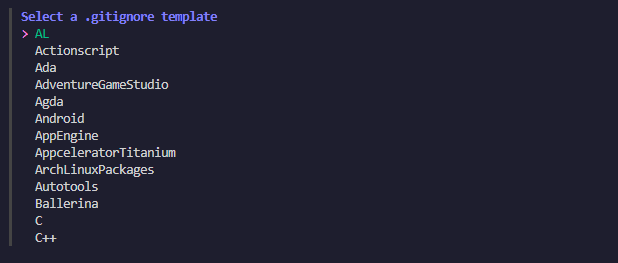
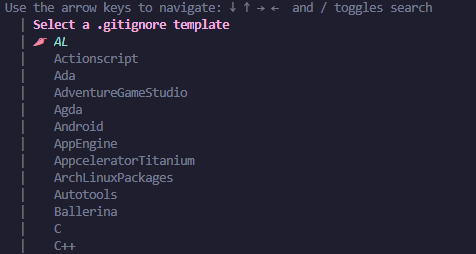
replace huh with promptui - it gives more control over filtering
add --filter/-f flag, this allows configuration over a prefix vs contains filter

update the README to reflect changes

Changed region(s): [[0.0, 0.0, 0.5882, 0.9921], [0.6176, 0.0, 0.9118, 0.0827], [0.1176, 0.937, 0.1765, 0.9921]]

diff --git a/new.go b/new.go
@@ -7,9 +7,8 @@ import (
 	"io"
 	"os"
 
-	"github.com/charmbracelet/huh"
-	"github.com/charmbracelet/lipgloss"
 	"github.com/google/go-github/v72/github"
+	"github.com/manifoldco/promptui"
 	"github.com/spf13/cobra"
 	"github.com/spf13/viper"
 )
@@ -58,41 +57,39 @@ func runNewCommand(cmd *cobra.Command, _ []string) error {
 		return fmt.Errorf("error committing gitignore file: %w", err)
 	}
 
-	style := lipgloss.NewStyle().
-		Bold(true).
-		Foreground(lipgloss.Color("#7D56F4")) // nolint: misspell
-
-	fmt.Println(style.Render("Created"), content.GetName(), style.Render(".gitignore file ✓"))
-
 	return nil
 }
 
 // runPrompt is a helper function to run the selection prompt for .gitignore templates.
 func runPrompt(client *github.Client, height int) (*github.Gitignore, error) {
-	var selection string
-
 	templates, _, err := client.Gitignores.List(context.Background())
 	if err != nil {
 		return nil, fmt.Errorf("error retrieving gitignore template list: %w", err)
 	}
-	var options []huh.Option[string]
-	for _, template := range templates {
-		options = append(options, huh.NewOption(template, template))
+
+	selectTemmplates := &promptui.SelectTemplates{
+		Label:    `  {{ "\U0000007C" | faint }} {{ . | magenta | bold }}`,
+		Active:   `{{ "\U0000007C" | faint }} {{ "🌶" | red }}  {{ . | cyan | italic }}`,
+		Inactive: `{{ "\U0000007C" | faint }}    {{ . | faint }}`,
+		Selected: `{{ "Created" | green }} {{ . }} {{ ".gitignore file ✓" | green }}`,
 	}
 
-	selectionPrompt := huh.NewSelect[string]().
-		Title("Select a .gitignore template").
-		Options(options...).
-		Height(height).
-		Value(&selection)
+	prompt := promptui.Select{
+		Label:     "Select a .gitignore template",
+		Items:     templates,
+		Templates: selectTemmplates,
+		Size:      height,
+		Searcher:  filterFunc(templates),
+	}
 
-	if err := selectionPrompt.Run(); err != nil {
+	i, _, err := prompt.Run()
+	if err != nil {
 		return nil, fmt.Errorf("error running selection prompt: %w", err)
 	}
 
-	content, _, err := client.Gitignores.Get(context.Background(), selection)
+	content, _, err := client.Gitignores.Get(context.Background(), templates[i])
 	if err != nil {
-		return nil, fmt.Errorf("error retrieving gitignore template '%s': %w", selection, err)
+		return nil, fmt.Errorf("error retrieving gitignore template '%s': %w", templates[i], err)
 	}
 
 	return content, nil

diff --git a/main.go b/main.go
@@ -55,6 +55,8 @@ You may also list available templates and generate .gitignore files based on tho
 func init() {
 	rootCmd.PersistentFlags().StringP("token", "t", "", "GitHub authentication token")
 	rootCmd.PersistentFlags().IntP("height", "H", 20, "Height of the selection prompt")
+	rootCmd.PersistentFlags().
+		StringP("filter", "f", "startswith", "Type of filter to apply to the list of templates (e.g., 'startswith', 'contains')")
 
 	rootCmd.Flags().BoolP("version", "v", false, "Print the version of the CLI")
 
@@ -62,6 +64,7 @@ func init() {
 	viper.AutomaticEnv()
 	viper.BindPFlag("token", rootCmd.PersistentFlags().Lookup("token"))
 	viper.BindPFlag("height", rootCmd.PersistentFlags().Lookup("height"))
+	viper.BindPFlag("filter", rootCmd.PersistentFlags().Lookup("filter"))
 }
 
 // main is the entry point of the application.

diff --git a/filter.go b/filter.go
@@ -1,0 +1,21 @@
+package main
+
+import (
+	"strings"
+
+	"github.com/spf13/viper"
+)
+
+// filterFunc returns a function that filters templates based on the specified filter type.
+func filterFunc(templates []string) func(input string, index int) bool {
+	switch viper.GetString("filter") {
+	case "contains":
+		return func(input string, index int) bool {
+			return strings.Contains(strings.ToLower(templates[index]), strings.ToLower(input))
+		}
+	default:
+		return func(input string, index int) bool {
+			return strings.HasPrefix(strings.ToLower(templates[index]), strings.ToLower(input))
+		}
+	}
+}

diff --git a/README.md b/README.md
@@ -21,6 +21,8 @@ go install github.com/onyx-and-iris/ignr-cli@latest
 -   --token/-t: GitHub authentication token
     -   note, this tool can be used **without** authenticating but rate limiting will be stricter.
 -   --height/-H: Height of the selection prompt (default 20)
+-   --filter/-f: Type of filter to apply to the list of templates (default startswith)
+    -   may be one of (startswith, contains)
 
 *environment variables*
 
@@ -29,6 +31,7 @@ go install github.com/onyx-and-iris/ignr-cli@latest
 
 export IGNR_TOKEN=<API Token>
 export IGNR_HEIGHT=20
+export IGNR_FILTER=startswith
 ```
 
 ## Commands
